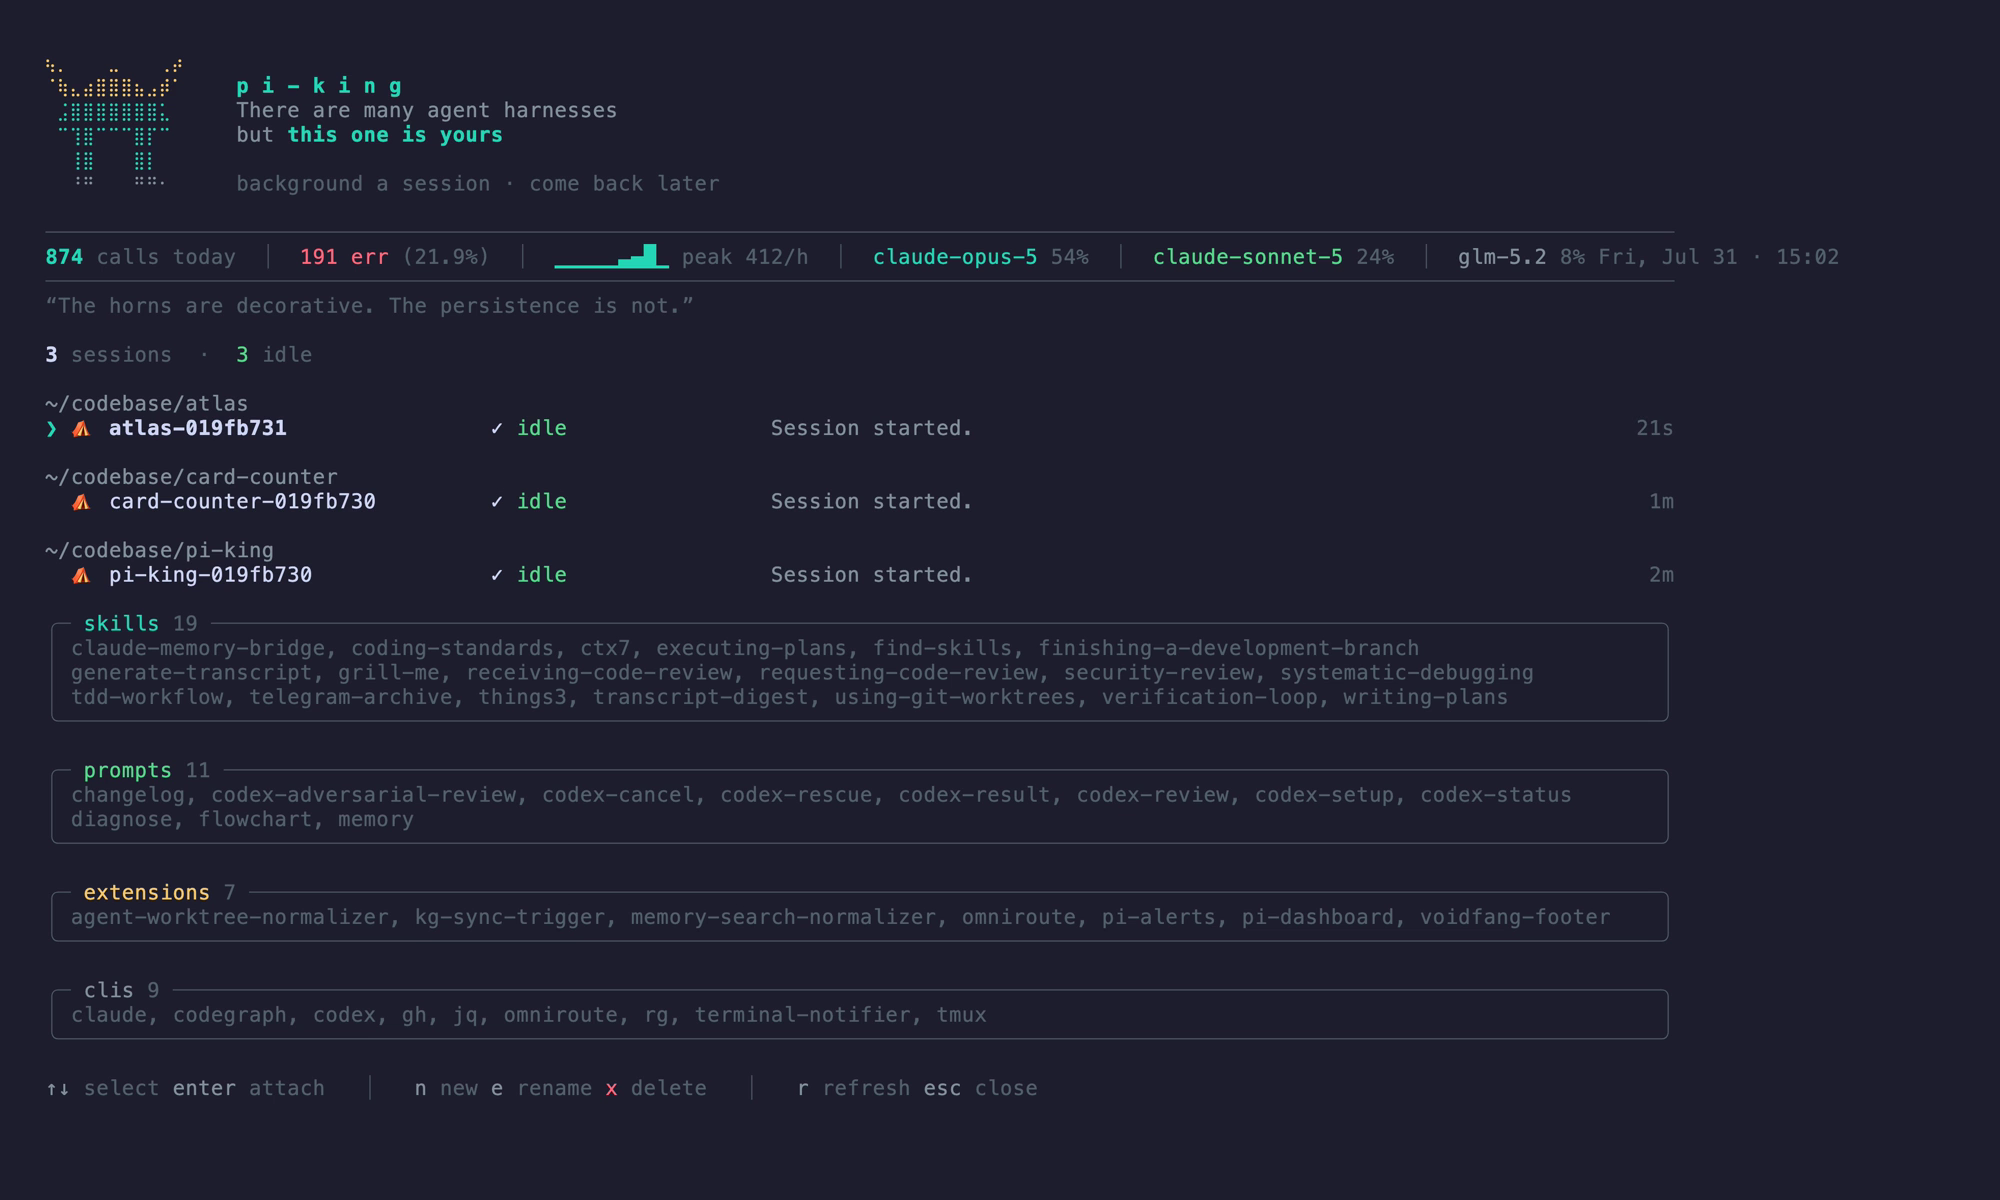
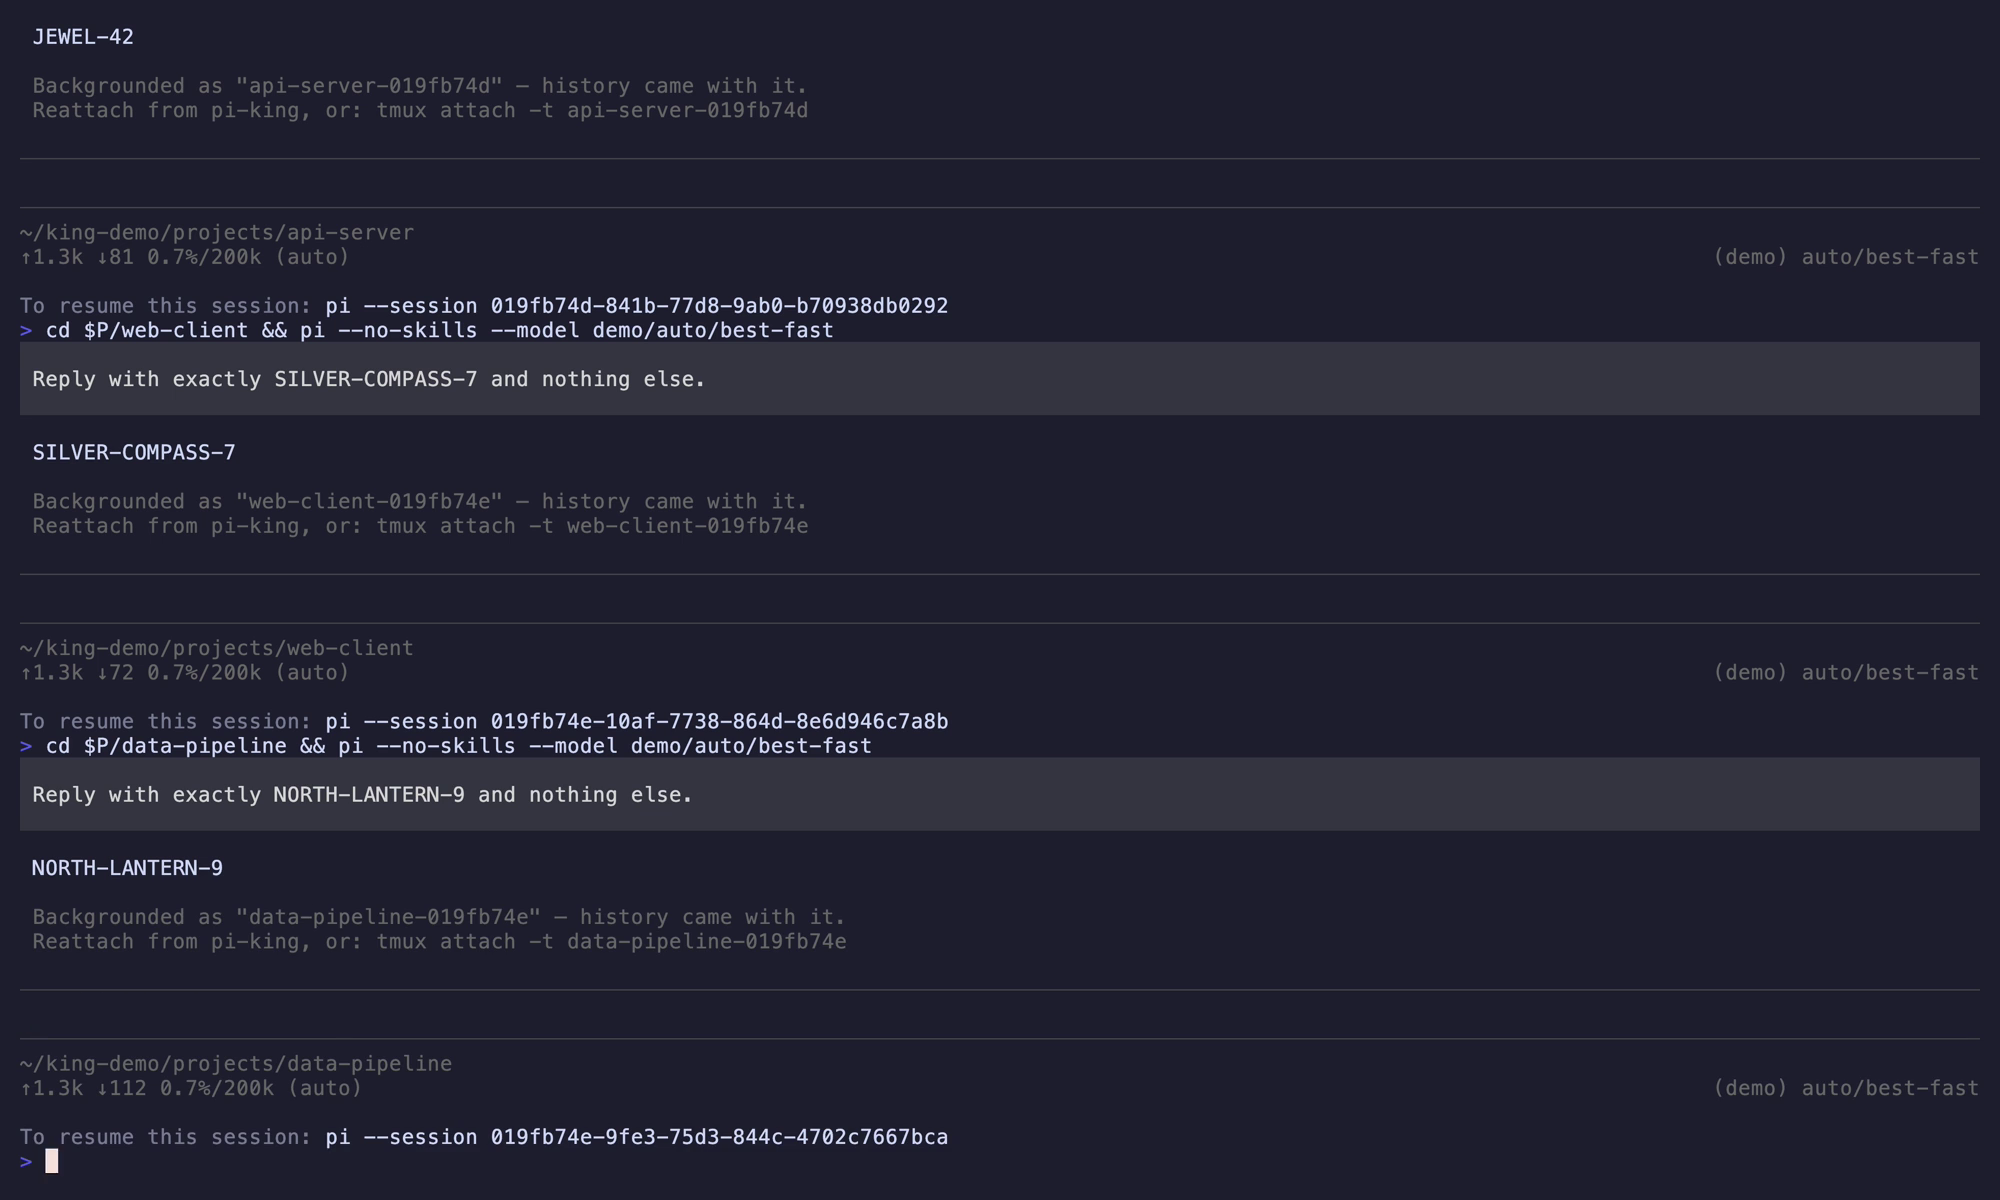
Remove machine-specific defaults and record the demo in a sanitized environment
The package hardcoded three things belonging to one machine: a call-log path
naming a specific local router, a CLI list including that router and a secrets
tool, and an agent directory that ignored PI_CODING_AGENT_DIR. The first two
are now environment-driven with neutral defaults, the third follows the
configuration actually in force.

The recording leaked more than the code did: skills, prompts, extensions,
installed CLIs, model mix, provider labels and real project names are all on
screen for its whole length. tools/demo-env.sh builds a throwaway agent
directory with placeholder content, synthetic call logs, and a provider
registered under a neutral display name; credentials are reached by symlink
rather than copied, so there is no second copy to leak or rotate.

tools/record-demo.sh moves $HOME/.agents/skills aside for the recording and
restores it on exit, including on failure. Pi scans that path unconditionally
and prints validation failures into every session; sessions can opt out with
--no-skills but sessions resumed by /bg cannot, since pi-king launches them.

Also renames the user-facing wrapper references from pi-agents to pi-king,
which is the name actually shipped in bin/.

diff --git a/src/index.ts b/src/index.ts
@@ -4,7 +4,7 @@
  *
  * Two entry points:
  *  - `/pi-dashboard` slash command, usable from any existing interactive session.
- *  - The `--agents-hub` flag (wired to the standalone `pi-agents` shell wrapper),
+ *  - The `--agents-hub` flag (wired to the standalone `pi-king` shell wrapper),
  *    which opens the dashboard immediately at session_start and loops on it
  *    until the user quits, instead of dropping into a normal chat prompt.
  *
@@ -285,7 +285,7 @@ function tmuxError(result: ReturnType<typeof spawnSync>): string {
 // Sessions created through the dashboard always get the normal, full
 // ~/.pi/agent config (skills, prompts, all extensions) regardless of what
 // env the tmux *server* itself inherited when it first started (which, if
-// started from the minimal pi-agents-hub process, would otherwise be
+// started from the minimal pi-king hub process, would otherwise be
 // PI_CODING_AGENT_DIR=~/.pi/agent-hub — the hub's own lean config, wrong
 // for a real working session). `-e` on `new-session` sets the env for that
 // specific new session's process, independent of server-inherited env —
@@ -362,7 +362,7 @@ function killTmuxSession(name: string): { ok: boolean; message: string } {
 }
 
 /**
- * Hands a chosen action back to the `pi-agents` wrapper script, which runs the
+ * Hands a chosen action back to the `pi-king` wrapper script, which runs the
  * actual tmux command *after this process has fully exited*.
  *
  * This indirection is load-bearing, not ceremony. The original implementation
@@ -481,7 +481,7 @@ function clockLine(): string {
 /** One-line usage ticker, colour-coded by meaning rather than decoration:
  * error rate takes its colour from a threshold (so a bad number is visible
  * without reading it), and the top three models get descending emphasis so
- * rank is legible at a glance. Renders nothing when the router wasn't used
+ * rank is legible at a glance. Renders nothing when no calls were logged
  * today — "0 calls" would falsely imply measured inactivity. */
 function tickerParts(th: Theme, stats: UsageStats | undefined, loaded: boolean): string | undefined {
   if (!loaded) return th.fg("dim", "\u2026");
@@ -1144,7 +1144,7 @@ function installSessionTracker(pi: ExtensionAPI) {
     const name = ctx.sessionManager.getSessionName() || `${basename(ctx.cwd) || "session"}-${sessionId.slice(0, 8)}`;
     const token = `pk-${Date.now().toString(36)}-${Math.random().toString(36).slice(2, 8)}`;
     if (spawnSync(tmux, ["has-session", "-t", name], { encoding: "utf8", timeout: 3000 }).status === 0) {
-      ctx.ui.notify(`A tmux session named "${name}" already exists \u2014 not creating a duplicate. Attach to it from pi-agents.`, "warning");
+      ctx.ui.notify(`A tmux session named "${name}" already exists \u2014 not creating a duplicate. Attach to it from pi-king.`, "warning");
       return;
     }
     const created = spawnSync(tmux, [
@@ -1152,7 +1152,7 @@ function installSessionTracker(pi: ExtensionAPI) {
       "-e", `PI_KING_TOKEN=${token}`, "-e", "PI_DASHBOARD_SPAWNED=1",
       // Pin the agent dir explicitly. A new tmux session inherits the tmux
       // SERVER's environment, not ours \u2014 and that server may have been started
-      // by a process using a different PI_CODING_AGENT_DIR (the pi-agents hub
+      // by a process using a different PI_CODING_AGENT_DIR (the pi-king hub
       // runs against a minimal one). The resumed Pi would then look for this
       // session's transcript under the wrong root, fail to find it, and exit
       // instantly. Verified: inheriting the hub's dir DIES, passing ours SURVIVES.
@@ -1182,10 +1182,10 @@ function installSessionTracker(pi: ExtensionAPI) {
     // then fights the shell for stdin \u2014 observed as interleaved, corrupted
     // rendering. Node cannot exec-replace itself, so the only way to win that
     // race is a wrapper process, and a second command to remember is worse
-    // than typing `pi-agents` when you actually want it.
+    // than typing `pi-king` when you actually want it.
     ctx.ui.notify(
       `Backgrounded as "${name}" \u2014 history came with it.\n` +
-      `Reattach from pi-agents, or: tmux attach -t ${name}`,
+      `Reattach from pi-king, or: tmux attach -t ${name}`,
       "info",
     );
     setTimeout(() => ctx.shutdown(), 1200);
@@ -1252,7 +1252,7 @@ export default function piDashboard(pi: ExtensionAPI) {
   pi.on("session_start", async (_event, ctx) => {
     if (!pi.getFlag("agents-hub")) return;
     if (ctx.mode !== "tui") {
-      ctx.ui.notify("pi-agents requires an interactive terminal.", "error");
+      ctx.ui.notify("pi-king requires an interactive terminal.", "error");
       ctx.shutdown();
       return;
     }

diff --git a/src/data.ts b/src/data.ts
@@ -1,5 +1,5 @@
 /**
- * pi-dashboard-data.ts — data sources for the pi-agents dashboard banner,
+ * data.ts — data sources for the pi-king dashboard banner,
  * stats line, inventory block, and landing page.
  *
  * Kept separate from pi-dashboard.ts so the rendering code stays readable and
@@ -24,8 +24,19 @@ import { join, basename } from "node:path";
 import { homedir } from "node:os";
 
 const HOME = homedir();
-const AGENT_DIR = join(HOME, ".pi", "agent");
-const CALL_LOGS = join(HOME, ".router", "call_logs");
+/** Inventory reflects the configuration actually in force, so it must follow
+ * PI_CODING_AGENT_DIR rather than assume the default location. */
+const AGENT_DIR = process.env.PI_CODING_AGENT_DIR?.trim() || join(HOME, ".pi", "agent");
+
+/** Directory of per-day call-log JSON, if one exists on this machine.
+ *
+ * Deliberately has no default. The metrics band reads a log format produced by
+ * a router sitting in front of the model providers, and there is no format any
+ * stock Pi install writes. Hardcoding one vendor's path would name a specific
+ * third-party tool in a general-purpose package and would show nothing for
+ * everyone who does not run it. Unset means the band is simply absent, which
+ * matches the rule that missing data renders as nothing. See README. */
+const CALL_LOGS = process.env.PI_KING_CALL_LOGS?.trim() || undefined;
 
 /* ------------------------------------------------------------------ art -- */
 
@@ -64,11 +75,13 @@ export type Inventory = {
 };
 
 /** CLIs worth reporting presence of — variable across machines and not printed
- * anywhere else, unlike skills/prompts which Pi lists at startup. */
-const CLI_CANDIDATES = [
-  "claude", "codegraph", "codex", "gh", "jq", "omniroute",
-  "rg", "terminal-notifier", "tmux", "vault",
-];
+ * anywhere else, unlike skills/prompts which Pi lists at startup. Kept to
+ * widely-used developer tools; override with PI_KING_CLIS (comma-separated) to
+ * track your own. Listing someone's private tooling by default would leak the
+ * shape of their setup into any screenshot they share. */
+const CLI_CANDIDATES = process.env.PI_KING_CLIS?.trim()
+  ? process.env.PI_KING_CLIS.split(",").map((c) => c.trim()).filter(Boolean)
+  : ["bat", "docker", "fd", "gh", "jq", "rg", "tmux"];
 
 function listDir(path: string, pick: (entry: string, full: string) => string | undefined): string[] {
   try {
@@ -141,17 +154,19 @@ function shortModel(id: string): string {
 }
 
 /**
- * Aggregates today's the router call logs.
+ * Aggregates today's call logs from the directory named by PI_KING_CALL_LOGS.
  *
  * Cost is real: ~2,100 files for a busy day, measured at ~0.5s. That is far
  * too slow for the dashboard's 1s render tick, so this is async and callers
  * must cache it (see StatsCache) rather than awaiting it on the render path.
  *
- * Returns undefined when today's directory does not exist — meaning the router
- * simply wasn't used today. Callers must render nothing rather than "0 calls",
- * which would falsely imply measured inactivity.
+ * Returns undefined when no log directory is configured, or when today's
+ * directory does not exist — meaning no calls were routed today. Callers must
+ * render nothing rather than "0 calls", which would falsely imply measured
+ * inactivity rather than absent measurement.
  */
 export async function readUsageStats(): Promise<UsageStats | undefined> {
+  if (!CALL_LOGS) return undefined;
   const dir = join(CALL_LOGS, today());
   let files: string[];
   try {

diff --git a/docs/TEST-SUITE.md b/docs/TEST-SUITE.md
@@ -18,10 +18,10 @@ you have real work backgrounded.**
 ```bash
 tmux kill-server 2>/dev/null
 rm -rf ~/.pi/king/session-status
-command -v pi-agents && tmux -V && pi --version
+command -v pi-king && tmux -V && pi --version
 ```
 
-**PASS:** `pi-agents` resolves, tmux present, `pi` responds, no tmux server.
+**PASS:** `pi-king` resolves, tmux present, `pi` responds, no tmux server.
 
 ---
 
@@ -29,7 +29,7 @@ command -v pi-agents && tmux -V && pi --version
 
 ### A1. Launch
 ```bash
-cd ~/codebase && pi-agents
+cd ~/codebase && pi-king
 ```
 **PASS:** Braille π-with-helmet banner; motto; metrics band bounded by two
 rules; quote of the day; `recent projects`; four inventory cards (skills,
@@ -41,9 +41,9 @@ With nothing backgrounded.
 vitals line (suppressed when there is no fleet).
 
 ### A3. Metrics honesty
-**PASS:** If the router logged calls today: count, error rate, model mix. If
+**PASS:** If calls were logged today: count, error rate, model mix. If
 fewer than 50 calls: **no sparkline** (a chart shaped from a handful of points
-implies a measurement it did not make). If the router unused today: metrics
+implies a measurement it did not make). If no calls logged today: metrics
 segments absent entirely — never `0 calls`.
 
 ---
@@ -183,10 +183,10 @@ garbage; session rows drop to one column.
 
 ### F3. Stats degradation
 ```bash
-mv ~/.router/call_logs ~/.router/call_logs.bak && pi-agents
+mv "$PI_KING_CALL_LOGS" "$PI_KING_CALL_LOGS.bak" && pi-king
 ```
 **PASS:** Metrics segments vanish; clock, sessions, and inventory unaffected.
-Restore with `mv ~/.router/call_logs.bak ~/.router/call_logs`.
+Restore with `mv "$PI_KING_CALL_LOGS.bak" "$PI_KING_CALL_LOGS"`.
 
 ### F4. Jump fallback
 Select a `⌁` (non-tmux) row → `Enter`.

diff --git a/README.md b/README.md
@@ -26,8 +26,15 @@ A local control plane for long-running [Pi](https://pi.dev) sessions.
 
 https://github.com/user-attachments/assets/REPLACE-AFTER-UPLOAD
 
-A session is backgrounded with `/bg`, listed in the dashboard, then reattached
-with its history intact — the same process, not a replay of its transcript.
+Three sessions in three projects are backgrounded with `/bg`, listed together
+in the dashboard, and one is reattached with its history intact — the same
+process, not a replay of its transcript.
+
+Recorded in a throwaway environment built by `tools/demo-env.sh`: placeholder
+skills and prompts, synthetic call logs, and a provider under a neutral name.
+A recording holds every panel on screen for its full length, so without that
+it would document the author's machine rather than this tool. Reproduce with
+`tools/record-demo.sh`.
 
 ![dashboard](media/dashboard.png)
 
@@ -120,6 +127,16 @@ settles, so an in-flight response and any running subagents finish normally
 rather than being killed.
 
 Detach from an attached session with tmux's own `Ctrl+B d`.
+
+## Configuration
+
+Everything is optional; unset means the corresponding panel is simply absent.
+
+| Variable | Effect |
+|---|---|
+| `PI_KING_CALL_LOGS` | Directory of per-day call-log JSON. Unset means no metrics band. |
+| `PI_KING_CLIS` | Comma-separated CLIs to report presence of. Defaults to common dev tools. |
+| `PI_KING_STATUS_DIR` | Overrides the session-status directory. Testing only. |
 
 ## Design notes
 

diff --git a/docs/SPEC.md b/docs/SPEC.md
@@ -146,7 +146,7 @@ several and must be fixed before release.
    feature-detected; the tool must be fully usable in any terminal.
 3. **Configurable.** Poll interval, opt-in default, tmux binary, keybindings,
    and which panels render should come from config, not constants.
-4. **Optional stats.** The usage panel reads `~/.router/call_logs`, which is
+4. **Optional stats.** The usage panel reads the directory named by `PI_KING_CALL_LOGS`, which is
    specific to one router. It must be off by default and pluggable.
 5. **Degrade, never fabricate.** Missing data renders nothing — never a zero
    that implies a measurement. No progress bars, because Pi exposes no
